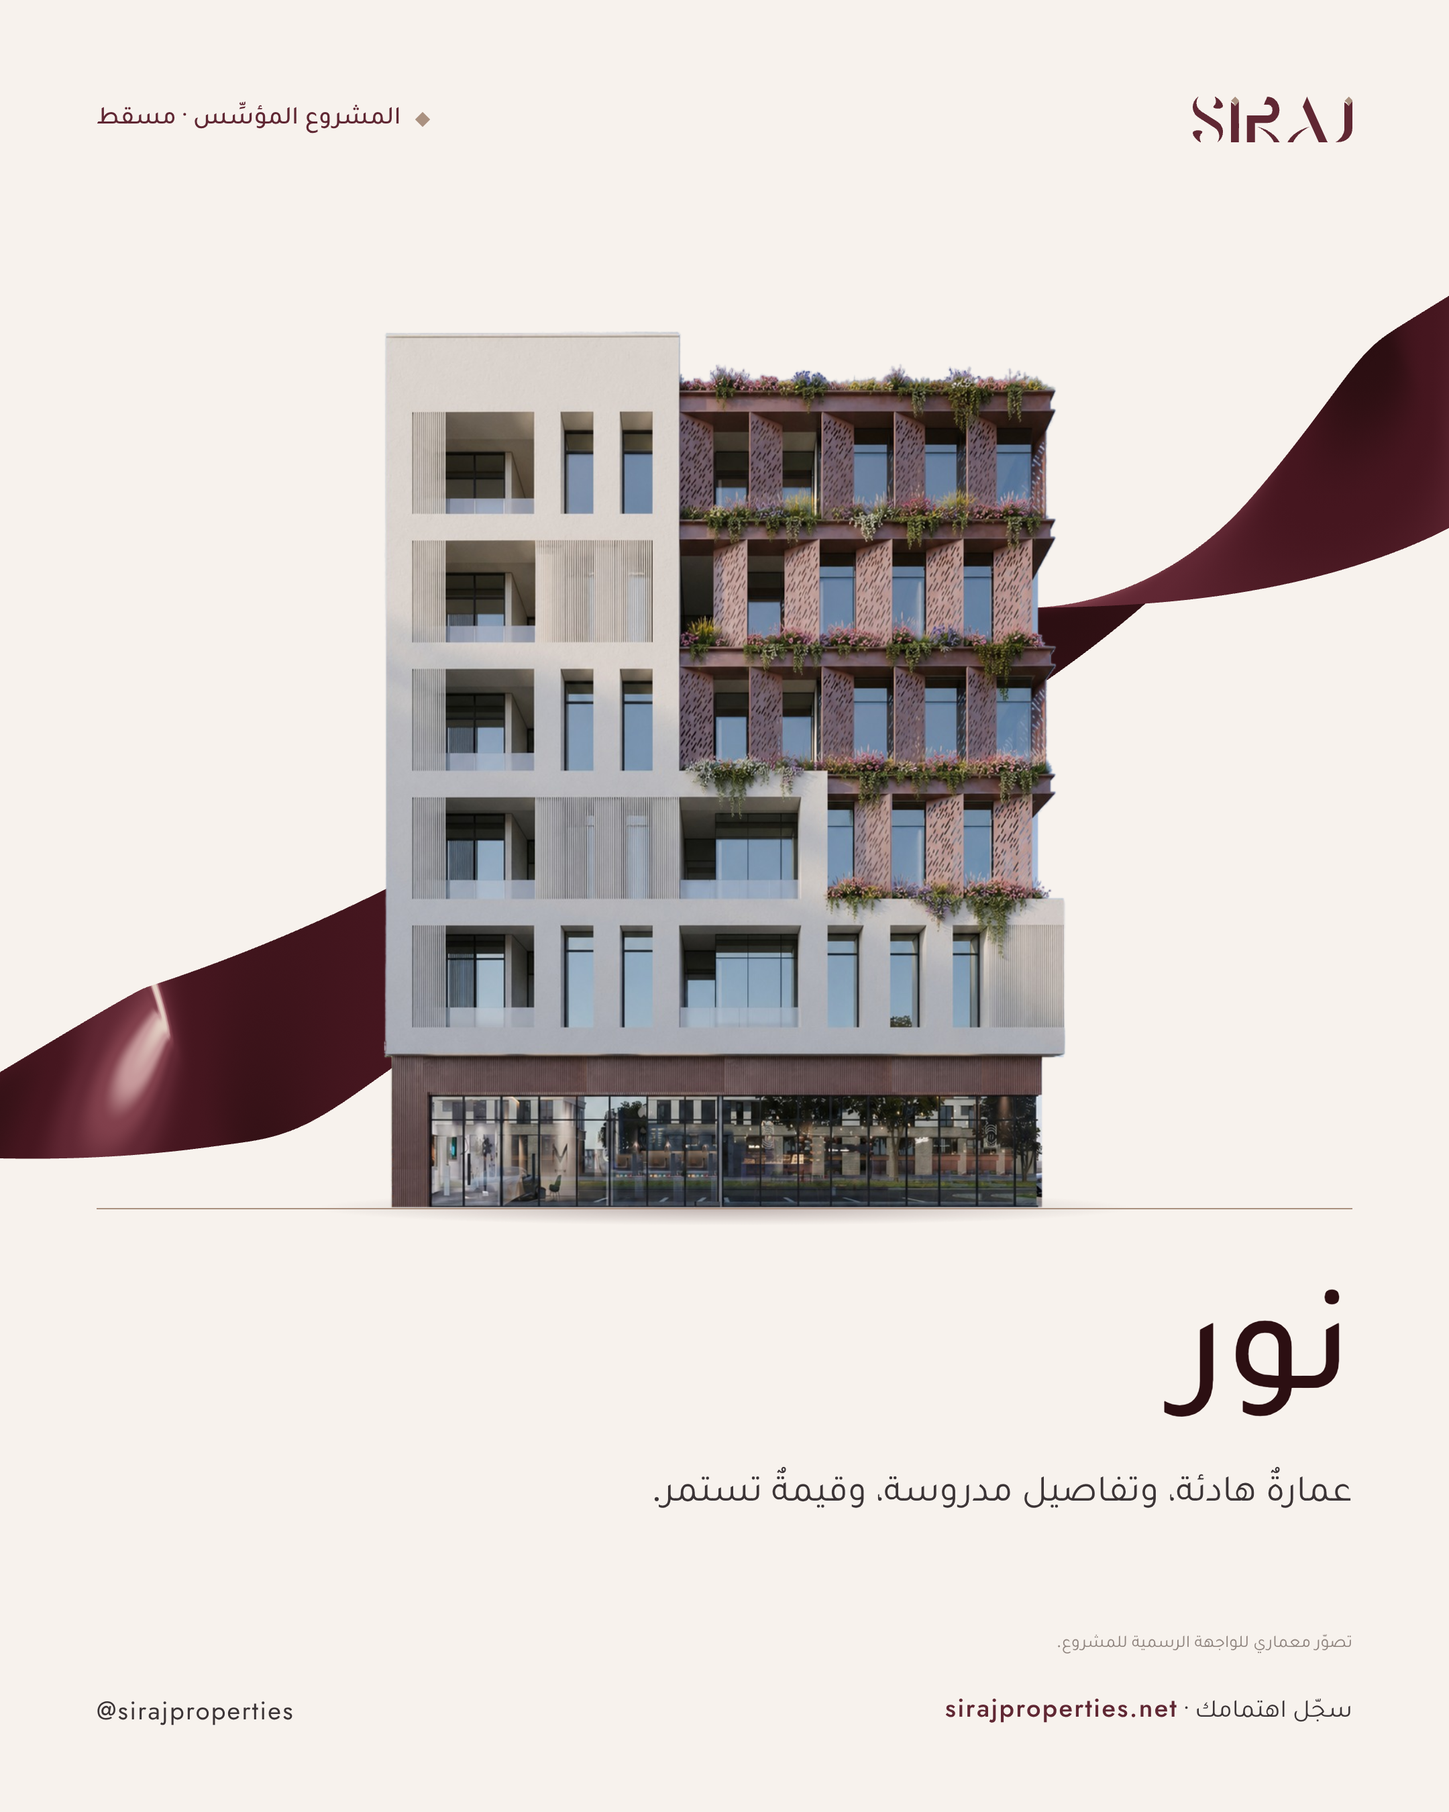
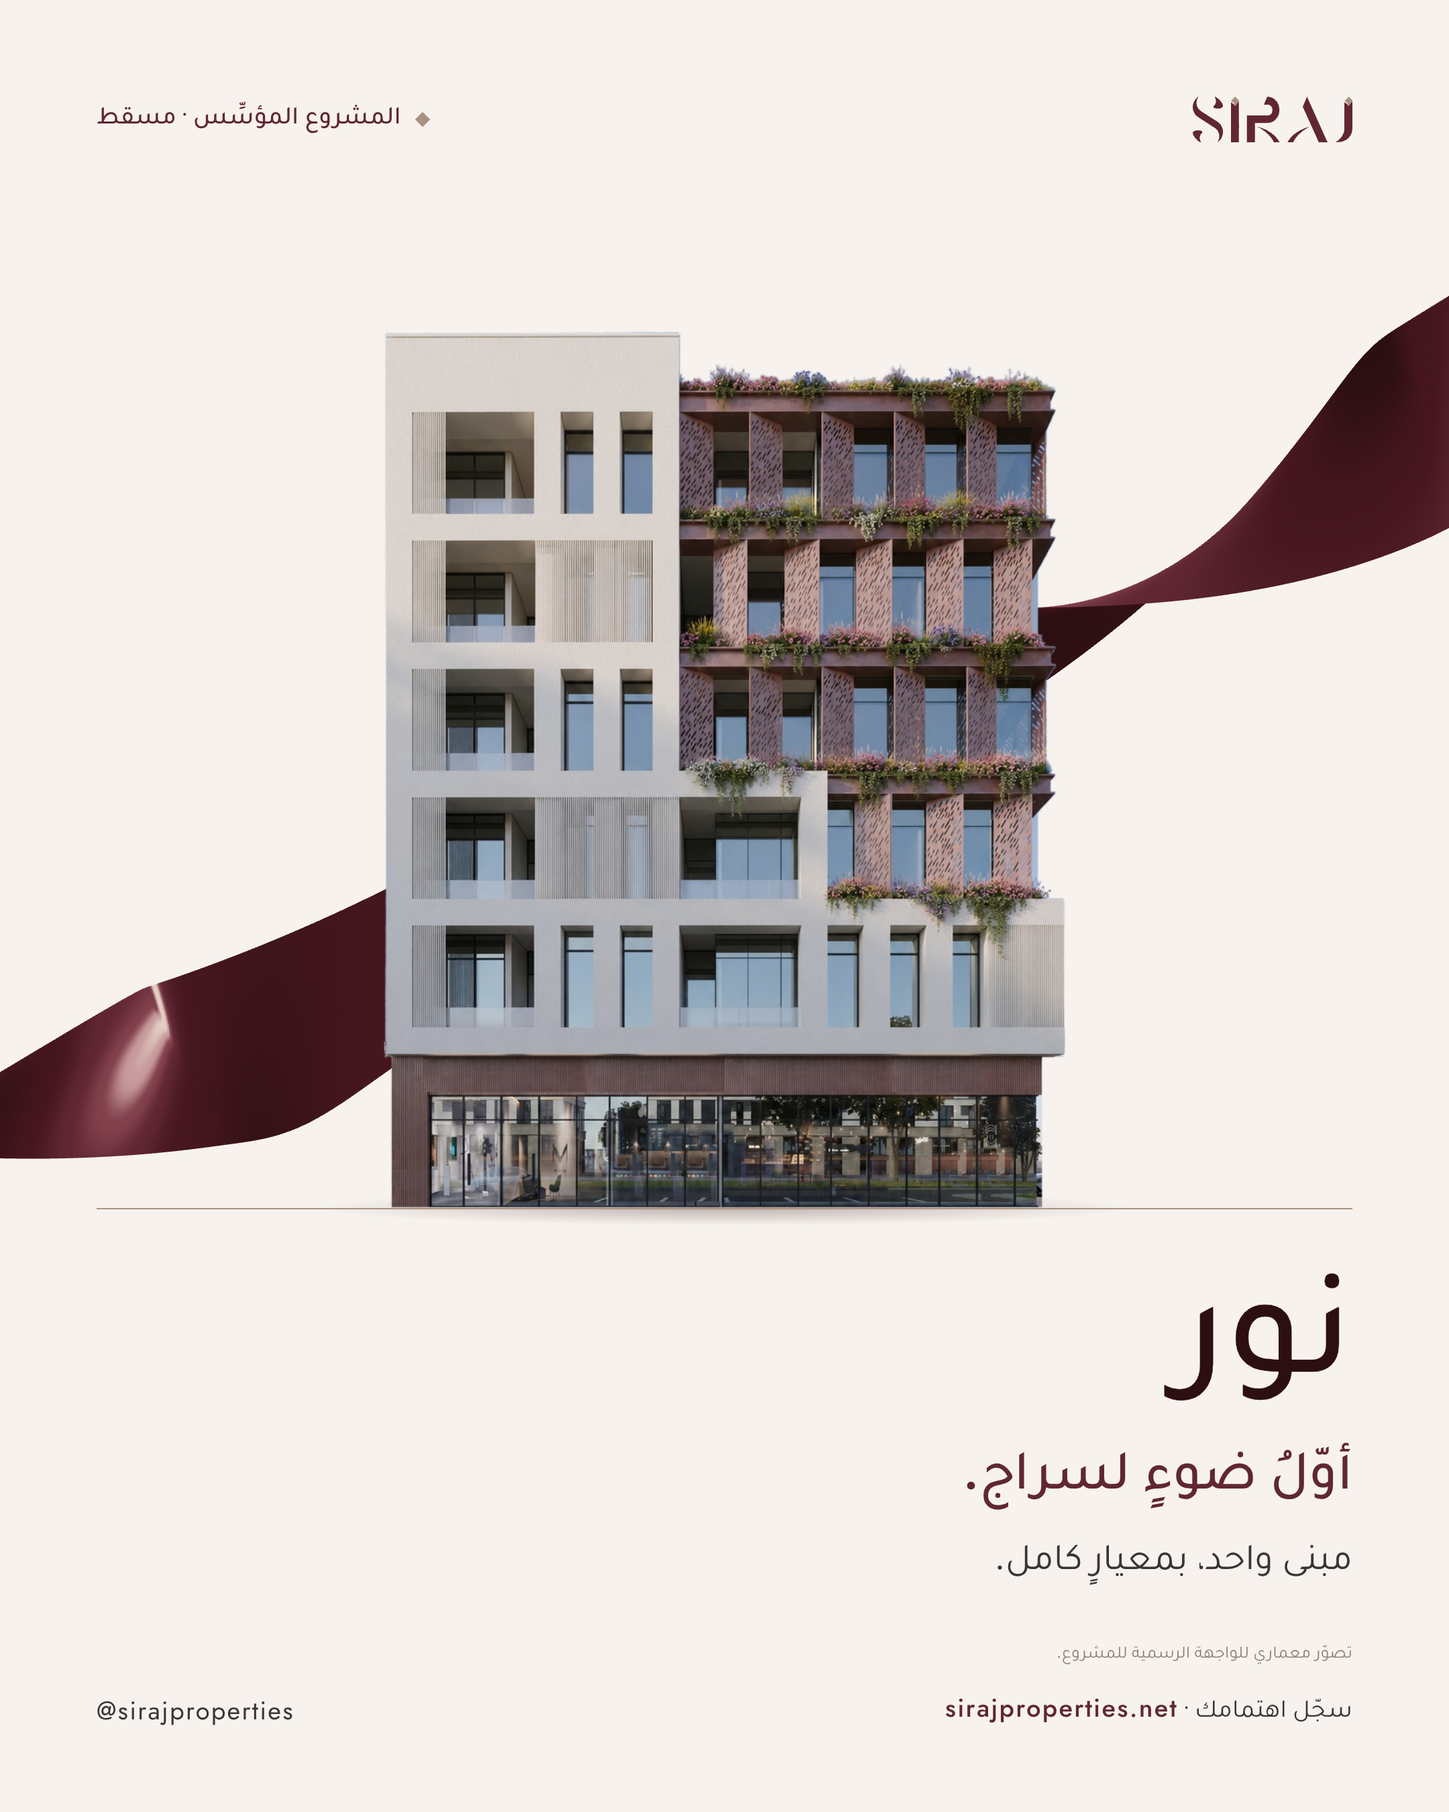
Noor: new marketing message; city-centre hero posts (post/story, AR/EN) with SIRAJ Silk Horizon
Claude-Session: https://claude.ai/code/session_01H6SQzozLwMcKuwEvLnjbpP

Changed region(s): [[0.6514, 0.6844, 0.9306, 0.8711], [0.7444, 0.9022, 0.9306, 0.9333], [0.4653, 0.8089, 0.6204, 0.84]]

diff --git a/14-Property-Marketing/10-Noor-Facade/Source/noor-hero-post.html b/14-Property-Marketing/10-Noor-Facade/Source/noor-hero-post.html
@@ -1,0 +1,78 @@
+<!doctype html>
+<html><head><meta charset="utf-8"><title>SIRAJ · Noor hero post</title>
+<!-- Noor · city-centre hero post. Open with ?fmt=post|story&lang=ar|en
+     Photo: SIRAJ_Noor_Hero_City_v1.0.jpg (graded with the SIRAJ Silk Grade). Silk: SIRAJ Silk Engine, Horizon formation. -->
+<link rel="stylesheet" href="../../../09-Design-System/css/siraj.css">
+<style>
+  html, body { margin: 0; background: #170608; }
+  #art { position: relative; overflow: hidden; background: #170608; }
+  #art.post { width: 1080px; height: 1350px; }
+  #art.story { width: 1080px; height: 1920px; }
+  .photo { position: absolute; inset: 0; width: 100%; height: 100%; object-fit: cover; }
+  .sky { position: absolute; left: 0; right: 0; top: 0; height: 44%; background: linear-gradient(180deg, rgba(247,242,237,.55), rgba(247,242,237,0)); }
+  .fall { position: absolute; left: 0; right: 0; bottom: 0; background: linear-gradient(180deg, rgba(44,15,18,0) 0%, rgba(44,15,18,.82) 46%, #2C0F12 100%); }
+  #silk { position: absolute; left: 0; right: 0; bottom: 0; width: 100%; }
+  .top { position: absolute; left: 72px; right: 72px; top: 72px; display: flex; justify-content: space-between; align-items: center; }
+  .logo { height: 34px; display: block; }
+  .eyebrow { font: 500 15px/1 Jost, sans-serif; letter-spacing: .22em; text-transform: uppercase; color: #602733; display: flex; align-items: center; gap: 12px; }
+  .lumen { width: 8px; height: 8px; background: #AA9180; transform: rotate(45deg); display: inline-block; flex: none; }
+  .head { position: absolute; left: 72px; right: 72px; margin: 0; font: 300 64px/1.08 Jost, sans-serif; letter-spacing: -.01em; color: #2C0F12; }
+  .bottom { position: absolute; left: 72px; right: 72px; bottom: 64px; color: #F7F2ED; }
+  .name { display: flex; align-items: baseline; gap: 18px; margin: 0 0 22px; }
+  .name b { font: 300 76px/1 Jost, sans-serif; color: #F7F2ED; }
+  .name span { font: 500 15px/1 Jost, sans-serif; letter-spacing: .22em; text-transform: uppercase; color: #D6C0B2; }
+  .headB { margin: 0 0 26px; font: 300 44px/1.15 Jost, sans-serif; color: #F7F2ED; }
+  [dir=rtl] .headB { font: 500 44px/1.35 'SIRAJ Digits', Tajawal, sans-serif; }
+  .rule { height: 1px; background: rgba(214,192,178,.45); margin: 0 0 20px; }
+  .foot { display: flex; justify-content: space-between; align-items: center; font: 400 17px/1 Jost, sans-serif; letter-spacing: .06em; color: #D6C0B2; }
+  .foot b { font-weight: 500; color: #F7F2ED; }
+  .disc { margin-top: 14px; font: 400 11px/1.3 Jost, sans-serif; letter-spacing: .04em; color: rgba(214,192,178,.7); }
+  [dir=rtl] .eyebrow { font: 500 19px/1 'SIRAJ Digits', Tajawal, sans-serif; letter-spacing: 0; }
+  [dir=rtl] .head { font: 500 66px/1.3 'SIRAJ Digits', Tajawal, sans-serif; letter-spacing: 0; }
+  [dir=rtl] .name b { font: 500 84px/1 'SIRAJ Digits', Tajawal, sans-serif; }
+  [dir=rtl] .name span { font: 500 20px/1 'SIRAJ Digits', Tajawal, sans-serif; letter-spacing: 0; }
+  [dir=rtl] .foot { font: 400 19px/1 'SIRAJ Digits', Tajawal, sans-serif; letter-spacing: 0; }
+  [dir=rtl] .disc { font: 400 13px/1.3 'SIRAJ Digits', Tajawal, sans-serif; letter-spacing: 0; }
+  .ltr { direction: ltr; unicode-bidi: isolate; font-family: Jost, sans-serif; letter-spacing: .06em; }
+</style>
+<script src="../../../06-SIRAJ-Silk/engine/siraj-silk.js"></script>
+</head><body>
+<div id="art"><img class="photo" alt="">
+  <div class="sky"></div><div class="fall"></div><canvas id="silk"></canvas>
+  <div class="top"><img class="logo" src="../../../01-Logos/SVG/SIRAJ_Logo_Primary_v1.0.svg" alt="SIRAJ"><div class="eyebrow"></div></div>
+  <h1 class="head"></h1>
+  <div class="bottom"><div class="name"></div><p class="headB"></p><div class="rule"></div><div class="foot"></div><div class="disc"></div></div>
+</div>
+<script>
+const q = new URLSearchParams(location.search);
+const fmt = q.get('fmt') || 'post', lang = q.get('lang') || 'ar';
+const art = document.getElementById('art'); art.className = fmt;
+if (lang === 'ar') art.setAttribute('dir', 'rtl');
+const T = {
+  ar: { eyebrow: 'المشروع المؤسِّس لسراج', head: 'في قلب المدينة،<br>يبدأ المعيار.', name: '<b>نور</b><span>مسقط</span>',
+        foot: '<span>سجّل اهتمامك · <b class="ltr">sirajproperties.net</b></span><span class="ltr">@sirajproperties</span>',
+        disc: 'تصوّر معماري للمشروع.' },
+  en: { eyebrow: 'SIRAJ’s Founding Project', head: 'In the heart of the city,<br>the standard begins.', name: '<b>Noor</b><span>Muscat</span>',
+        foot: '<span>Register your interest · <b>sirajproperties.net</b></span><span>@sirajproperties</span>',
+        disc: 'Architectural visualisation.' },
+}[lang];
+const L = { post: { head: null, pos: q.get('pos') || '50% 50%', fall: 520, silk: 300 }, story: { head: 200, pos: q.get('pos') || '50% 50%', fall: 640, silk: 420 } }[fmt];
+document.querySelector('.photo').src = q.get('img') || (fmt === 'story' ? 'SIRAJ_Noor_Hero_City_9x16_v1.0.jpg' : 'SIRAJ_Noor_Hero_City_4x5_v1.0.jpg');
+document.querySelector('.photo').style.objectPosition = L.pos;
+document.querySelector('.eyebrow').innerHTML = `<span class="lumen"></span>${T.eyebrow}`;
+const head = document.querySelector('.head'), headB = document.querySelector('.headB');
+if (L.head) { head.innerHTML = T.head; head.style.top = L.head + 'px'; headB.remove(); } else { headB.innerHTML = T.head.replace('<br>', ' '); head.remove(); }
+document.querySelector('.name').innerHTML = T.name;
+document.querySelector('.foot').innerHTML = T.foot;
+document.querySelector('.disc').textContent = T.disc;
+document.querySelector('.fall').style.height = L.fall + 'px';
+
+// SIRAJ Silk · Horizon: the silk surface becomes the ground line the building stands on
+const W = 1080, S = 2, cv = document.getElementById('silk');
+cv.style.height = L.silk + 'px'; cv.width = W * S; cv.height = L.silk * S;
+const silk = new SirajSilk(cv, { background: 'transparent', exposure: fmt === 'story' ? 0.7 : 1.0, drape: { scale: 1.2, angle: -1.32, pinch: [2.2, -1.4], folds: 3, amp: 0.8, crease: 0.6, mask: [1, 0.62, 0.0015, 0.12] } });
+silk.render(+(q.get('t') || (fmt === 'story' ? 0.2 : 1.0)));
+const img = document.querySelector('.photo');
+(img.complete ? Promise.resolve() : new Promise((r) => (img.onload = r))).then(() => (window.ready = true));
+</script>
+</body></html>

diff --git a/14-Property-Marketing/10-Noor-Facade/Source/noor-facade-post.html b/14-Property-Marketing/10-Noor-Facade/Source/noor-facade-post.html
@@ -20,7 +20,8 @@
   .lumen { width: 8px; height: 8px; background: #AA9180; transform: rotate(45deg); display: inline-block; }
   .copy { position: absolute; left: 72px; right: 72px; }
   .title { font: 300 96px/1 Jost, sans-serif; letter-spacing: -.01em; color: #2C0F12; margin: 0; }
-  .line { font: 300 26px/1.45 Jost, sans-serif; color: #3B3436; margin: 18px 0 0; max-width: 620px; }
+  .head { font: 400 40px/1.15 Jost, sans-serif; color: #602733; margin: 14px 0 0; }
+  .line { font: 300 26px/1.45 Jost, sans-serif; color: #3B3436; margin: 12px 0 0; max-width: 680px; }
   .foot { position: absolute; left: 72px; right: 72px; bottom: 64px; display: flex; justify-content: space-between; align-items: center;
     font: 400 17px/1 Jost, sans-serif; letter-spacing: .06em; color: #3B3436; }
   .foot b { font-weight: 500; color: #602733; }
@@ -28,6 +29,7 @@
   /* Arabic */
   [dir=rtl] .eyebrow { font: 500 19px/1 'SIRAJ Digits', Tajawal, sans-serif; letter-spacing: 0; }
   [dir=rtl] .title { font: 500 112px/1 'SIRAJ Digits', Tajawal, sans-serif; letter-spacing: 0; }
+  [dir=rtl] .head { font: 500 42px/1.3 'SIRAJ Digits', Tajawal, sans-serif; }
   [dir=rtl] .line { font: 400 28px/1.6 'SIRAJ Digits', Tajawal, sans-serif; }
   [dir=rtl] .foot { font: 400 19px/1 'SIRAJ Digits', Tajawal, sans-serif; letter-spacing: 0; }
   [dir=rtl] .disc { font: 400 13px/1.3 'SIRAJ Digits', Tajawal, sans-serif; letter-spacing: 0; }
@@ -39,7 +41,7 @@
   <div class="shadow"></div><div class="ground"></div>
   <div class="bld"><img src="SIRAJ_Noor_Facade_Cutout_v1.0.png" alt=""></div>
   <div class="top"><img class="logo" alt="SIRAJ"><div class="eyebrow"></div></div>
-  <div class="copy"><h1 class="title"></h1><p class="line"></p></div>
+  <div class="copy"><h1 class="title"></h1><p class="head"></p><p class="line"></p></div>
   <div class="disc"></div>
   <div class="foot"></div>
 </div>
@@ -49,15 +51,15 @@ const fmt = q.get('fmt') || 'post', lang = q.get('lang') || 'ar';
 const art = document.getElementById('art'); art.className = fmt;
 if (lang === 'ar') art.setAttribute('dir', 'rtl');
 const T = {
-  ar: { eyebrow: 'المشروع المؤسِّس · مسقط', title: 'نور', line: 'عمارةٌ هادئة، وتفاصيل مدروسة، وقيمةٌ تستمر.',
+  ar: { eyebrow: 'المشروع المؤسِّس · مسقط', title: 'نور', head: 'أوّلُ ضوءٍ لسراج.', line: 'مبنى واحد، بمعيارٍ كامل.',
         foot: '<span>سجّل اهتمامك · <b class="ltr">sirajproperties.net</b></span><span class="ltr">@sirajproperties</span>',
         disc: 'تصوّر معماري للواجهة الرسمية للمشروع.' },
-  en: { eyebrow: 'The Founding Project · Muscat', title: 'Noor', line: 'Calm architecture, considered detail, lasting value.',
+  en: { eyebrow: 'The Founding Project · Muscat', title: 'Noor', head: 'SIRAJ’s first light.', line: 'One building. A complete standard.',
         foot: '<span>Register your interest · <b>sirajproperties.net</b></span><span>@sirajproperties</span>',
         disc: 'Architectural visualisation of the official project façade.' },
 }[lang];
 // layout per format: building height, base line (y), copy top
-const L = { post: { bh: 660, base: 900, copy: 962, disc: 1218 }, story: { bh: 820, base: 1250, copy: 1320, disc: 1772 } }[fmt];
+const L = { post: { bh: 660, base: 900, copy: 950, disc: 1226 }, story: { bh: 820, base: 1250, copy: 1320, disc: 1772 } }[fmt];
 const BW = L.bh * 864 / 1104;
 Object.assign(document.querySelector('.bld').style, { width: BW + 'px', height: L.bh + 'px', top: (L.base - L.bh) + 'px' });
 Object.assign(document.querySelector('.shadow').style, { width: BW * 1.18 + 'px', top: (L.base - 13) + 'px' });
@@ -67,6 +69,7 @@ document.querySelector('.disc').style.top = L.disc + 'px';
 document.querySelector('.logo').src = '../../../01-Logos/SVG/SIRAJ_Logo_Primary_v1.0.svg';
 document.querySelector('.eyebrow').innerHTML = `<span class="lumen"></span>${T.eyebrow}`;
 document.querySelector('.title').textContent = T.title;
+document.querySelector('.head').textContent = T.head;
 document.querySelector('.line').textContent = T.line;
 document.querySelector('.foot').innerHTML = T.foot;
 document.querySelector('.disc').textContent = T.disc;

diff --git a/tools/build-noor-hero.js b/tools/build-noor-hero.js
@@ -1,0 +1,21 @@
+// Noor · city-centre hero posts (post 4:5 and story 9:16, Arabic and English).
+// Usage: node tools/build-noor-hero.js
+const path = require('path');
+const R = require('./lib/render');
+const SRC = path.join(R.ROOT, '14-Property-Marketing/10-Noor-Facade/Source/noor-hero-post.html');
+const OUT = path.join(R.ROOT, '14-Property-Marketing/10-Noor-Facade');
+const JOBS = (process.argv[2] ? [process.argv[2]] : ['post', 'story']).map((f) => (f === 'post' ? ['post', 1080, 1350, 'Post'] : ['story', 1080, 1920, 'Story']));
+(async () => {
+  for (const [fmt, w, h, name] of JOBS) for (const lang of ['ar', 'en']) {
+    const { page, cleanup } = await R.openPage({ file: SRC, width: w, height: h, scale: 2 });
+    await page.goto('file://' + SRC + `?fmt=${fmt}&lang=${lang}`, { waitUntil: 'load' });
+    await page.evaluate(() => document.fonts.ready);
+    await page.waitForFunction(() => window.ready === true);
+    await page.waitForTimeout(300);
+    const out = path.join(OUT, `SIRAJ_Noor_Hero_${name}_${lang.toUpperCase()}_v1.0.png`);
+    await page.locator('#art').screenshot({ path: out });
+    await cleanup();
+    console.log('  ✓', path.relative(R.ROOT, out));
+  }
+  await R.close();
+})();

diff --git a/ASSET-INDEX.md b/ASSET-INDEX.md
@@ -2,7 +2,7 @@
 
 Generated by `npm run build:index` on 2026-10-11. Paths are relative to the repository root.
 
-**1422 files · 587.2 MB**
+**1437 files · 622.0 MB**
 
 | Folder | Files | Size | Types |
 |---|---|---|---|
@@ -20,7 +20,7 @@ Generated by `npm run build:index` on 2026-10-11. Paths are relative to the repo
 | [11-Social](#11-social) | 118 | 66.4 MB | png ×97, html ×16, js ×3, md ×1, css ×1 |
 | [12-Print](#12-print) | 77 | 26.2 MB | pdf ×27, png ×27, html ×20, md ×1, css ×1, json ×1 |
 | [13-Presentations](#13-presentations) | 42 | 22.2 MB | png ×34, pdf ×2, html ×2, pptx ×1, md ×1, css ×1, js ×1 |
-| [14-Property-Marketing](#14-property-marketing) | 261 | 190.1 MB | png ×148, html ×65, svg ×26, pdf ×20, md ×1, css ×1 |
+| [14-Property-Marketing](#14-property-marketing) | 276 | 224.9 MB | png ×157, html ×67, svg ×26, pdf ×20, jpg ×3, md ×2, css ×1 |
 | [15-Motion-System](#15-motion-system) | 61 | 68.3 MB | mp4 ×24, png ×24, wav ×5, js ×4, html ×2, md ×1, css ×1 |
 | [16-Intro](#16-intro) | 15 | 39.8 MB | mp4 ×7, png ×4, mov ×1, webm ×1, md ×1, html ×1 |
 | [17-Outro](#17-outro) | 31 | 49.8 MB | mp4 ×18, png ×9, mov ×1, webm ×1, md ×1, html ×1 |
@@ -2243,6 +2243,35 @@ Specification: [`14-Property-Marketing/README.md`](14-Property-Marketing/README.
 | [SIRAJ_Campaign-KV_Silk-Wrap_16x9_v1.0.html](14-Property-Marketing/10-Campaign-Key-Visuals/Source/SIRAJ_Campaign-KV_Silk-Wrap_16x9_v1.0.html) | 4 KB |
 | [SIRAJ_Campaign-KV_Silk-Wrap_4x5_v1.0.html](14-Property-Marketing/10-Campaign-Key-Visuals/Source/SIRAJ_Campaign-KV_Silk-Wrap_4x5_v1.0.html) | 4 KB |
 | [SIRAJ_Campaign-KV_Silk-Wrap_9x16_v1.0.html](14-Property-Marketing/10-Campaign-Key-Visuals/Source/SIRAJ_Campaign-KV_Silk-Wrap_9x16_v1.0.html) | 4 KB |
+
+</details>
+
+<details><summary><b>14-Property-Marketing/10-Noor-Facade/</b> — 9 files</summary>
+
+| File | Size |
+|---|---|
+| [README.md](14-Property-Marketing/10-Noor-Facade/README.md) | 2 KB |
+| [SIRAJ_Noor_Facade_Post_AR_v1.0.png](14-Property-Marketing/10-Noor-Facade/SIRAJ_Noor_Facade_Post_AR_v1.0.png) | 1.6 MB |
+| [SIRAJ_Noor_Facade_Post_EN_v1.0.png](14-Property-Marketing/10-Noor-Facade/SIRAJ_Noor_Facade_Post_EN_v1.0.png) | 1.7 MB |
+| [SIRAJ_Noor_Facade_Story_AR_v1.0.png](14-Property-Marketing/10-Noor-Facade/SIRAJ_Noor_Facade_Story_AR_v1.0.png) | 2.2 MB |
+| [SIRAJ_Noor_Facade_Story_EN_v1.0.png](14-Property-Marketing/10-Noor-Facade/SIRAJ_Noor_Facade_Story_EN_v1.0.png) | 2.2 MB |
+| [SIRAJ_Noor_Hero_Post_AR_v1.0.png](14-Property-Marketing/10-Noor-Facade/SIRAJ_Noor_Hero_Post_AR_v1.0.png) | 5.3 MB |
+| [SIRAJ_Noor_Hero_Post_EN_v1.0.png](14-Property-Marketing/10-Noor-Facade/SIRAJ_Noor_Hero_Post_EN_v1.0.png) | 5.3 MB |
+| [SIRAJ_Noor_Hero_Story_AR_v1.0.png](14-Property-Marketing/10-Noor-Facade/SIRAJ_Noor_Hero_Story_AR_v1.0.png) | 6.5 MB |
+| [SIRAJ_Noor_Hero_Story_EN_v1.0.png](14-Property-Marketing/10-Noor-Facade/SIRAJ_Noor_Hero_Story_EN_v1.0.png) | 6.5 MB |
+
+</details>
+
+<details><summary><b>14-Property-Marketing/10-Noor-Facade/Source/</b> — 6 files</summary>
+
+| File | Size |
+|---|---|
+| [SIRAJ_Noor_Facade_Clean_v1.0.jpg](14-Property-Marketing/10-Noor-Facade/Source/SIRAJ_Noor_Facade_Clean_v1.0.jpg) | 469 KB |
+| [SIRAJ_Noor_Facade_Cutout_v1.0.png](14-Property-Marketing/10-Noor-Facade/Source/SIRAJ_Noor_Facade_Cutout_v1.0.png) | 1.2 MB |
+| [SIRAJ_Noor_Hero_City_4x5_v1.0.jpg](14-Property-Marketing/10-Noor-Facade/Source/SIRAJ_Noor_Hero_City_4x5_v1.0.jpg) | 1.1 MB |
+| [SIRAJ_Noor_Hero_City_9x16_v1.0.jpg](14-Property-Marketing/10-Noor-Facade/Source/SIRAJ_Noor_Hero_City_9x16_v1.0.jpg) | 953 KB |
+| [noor-facade-post.html](14-Property-Marketing/10-Noor-Facade/Source/noor-facade-post.html) | 6 KB |
+| [noor-hero-post.html](14-Property-Marketing/10-Noor-Facade/Source/noor-hero-post.html) | 6 KB |
 
 </details>
 

diff --git a/14-Property-Marketing/10-Noor-Facade/README.md b/14-Property-Marketing/10-Noor-Facade/README.md
@@ -14,3 +14,20 @@ Rebuild:
 python3 tools/noor-facade-prep.py <official-render.jpg> 14-Property-Marketing/10-Noor-Facade/Source
 node tools/build-noor-facade.js
 ```
+
+## Hero · Noor in the heart of Muscat
+
+`SIRAJ_Noor_Hero_{Post,Story}_{AR,EN}_v1.0.png`: a low three-quarter hero shot of the building on a Muscat city-centre street at golden hour. A SIRAJ Silk Horizon forms the ground under the building and carries the type.
+
+- `Source/SIRAJ_Noor_Hero_City_4x5_v1.0.jpg` and `Source/SIRAJ_Noor_Hero_City_9x16_v1.0.jpg` are AI-assisted visualisations (ElevenLabs · Nano Banana Pro) generated from the cleaned official façade. They carry the SIRAJ Silk Grade at 35 %, which keeps the official rose-copper true. There are no people in the images.
+- The side elevation is interpreted by the visualisation. Replace it with the architect's CGI when it is available.
+- Layout: `Source/noor-hero-post.html` (`?fmt=post|story&lang=ar|en`). Build with `node tools/build-noor-hero.js`.
+
+## Message
+
+| | Arabic | English |
+|---|---|---|
+| Façade post | نور · أوّلُ ضوءٍ لسراج. · مبنى واحد، بمعيارٍ كامل. | Noor · SIRAJ’s first light. · One building. A complete standard. |
+| Hero post | في قلب المدينة، يبدأ المعيار. | In the heart of the city, the standard begins. |
+
+Both lines build on the brand core «سراج لا تبدأ بالانتشار، بل تبدأ بمعيار».
